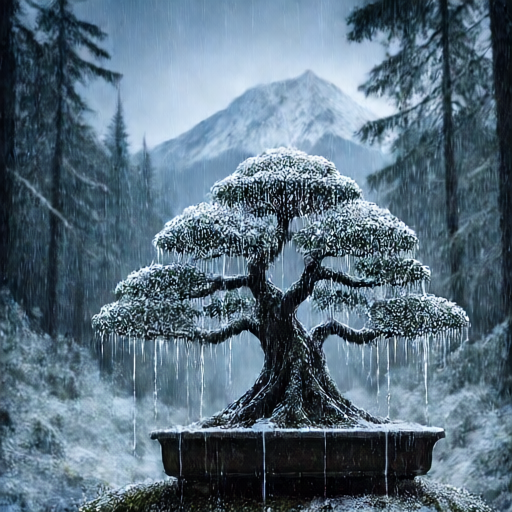
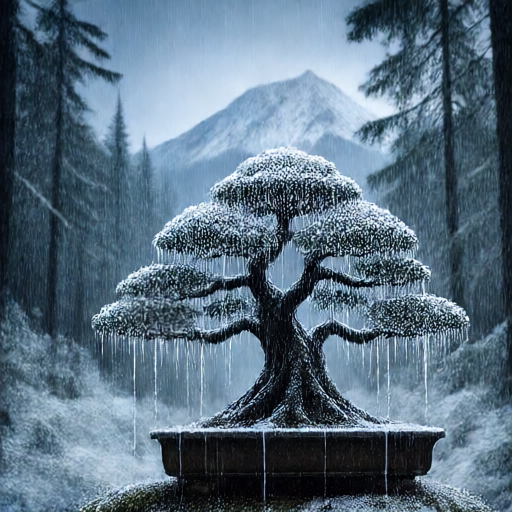
Qwen-Image-Edit: 20 step invece di 40 (misurati)
I 40 step arrivavano dalla scheda diffusers, pensata per GPU con tutto
in memoria. Sul setup reale (DiT in VRAM, text encoder 7B su CPU) non
ha senso: a 512², stesso seed e stessa istruzione

  8 step -> 61 s · 12 -> 60 s · 20 -> 71 s · 40 -> 115 s

~50 s dei 71 sono un costo fisso (encoding col text encoder su CPU +
primo page-in dei pesi), gli step costano ~2 s a testa. Sotto i 20 non
si guadagna tempo e si perde qualita' (aghi fusi a 8), sopra i 20 si
ruba il 38% del tempo per un guadagno invisibile.

Default a 20, wiki con la tabella misurata e il confronto online
(~224 s a 20 step in ComfyUI col GGUF Q4_K_M sulla stessa 5060 Ti), e
i due esempi a 20 e 8 step per far vedere la differenza.

diff --git a/frontend/src/data/wiki.ts b/frontend/src/data/wiki.ts
@@ -158,10 +158,11 @@ export const QWENIMAGEEDIT: ModelWiki = {
     'Peso disco': '≈ 14,7 GB (DiT 9,7 + TE 4,7 + VAE 0,25)',
     'Text encoder': 'Qwen2.5-VL-7B-Instruct (GGUF Q4_K_M) + mmproj visione',
     'VAE': 'Qwen-Image originale (AutoencoderKLQwenImage)',
-    'Step': '40 (consigliati)',
+    'Step': '20 (misurati: sotto i 20 non si guadagna tempo, sopra non si vede)',
     'CFG': '2.5 · sampler euler · flow-shift 3',
     'Uso': 'solo image editing: immagine di partenza obbligatoria',
-    'Tempo 512²': '115 s misurati (40 step, cache-dit, text encoder su CPU)',
+    'Tempo 512²': '71 s a 20 step · 115 s a 40 step · 61 s a 8 step — metà del tempo è un costo fisso di ~50 s (encoding dell\'istruzione col text encoder su CPU), gli step aggiungono ~2 s a testa',
+    'Confronto online': 'su RTX 5060 Ti 16GB, in ComfyUI, altri misurano ~224 s a 20 step col GGUF Q4_K_M e ~30 s a 4 step con il Lightning LoRA',
     'VRAM misurata': '≈ 9,3 GB in VRAM (DiT 9,3 + VAE 0,24) + ≈ 5,3 GB in RAM per il text encoder',
     'Endpoint': 'POST /api/image (hub —> :8000/generate, backend sd-server)',
   },
@@ -172,7 +173,8 @@ export const QWENIMAGEEDIT: ModelWiki = {
     'Il costo è alto: ~14 GB di pesi, DiT da 9,3 GB in VRAM e un text encoder da 5,3 GB che gira su CPU. Non coesiste con nessun altro modello.',
   ],
   examples: [
-    { file: 'qwenimageedit-snow.png', prompt: 'make it snow on the ground', note: '512² · 115 s — la struttura resta, cambia solo la quantità di neve' },
+    { file: 'qwenimageedit-snow.png', prompt: 'make it snow on the ground', note: '512² · 71 s a 20 step — la struttura resta, cambia solo la quantità di neve' },
+    { file: 'qwenimageedit-snow-8step.png', prompt: 'make it snow on the ground', note: '512² · 61 s a 8 step — la stessa scena, aghi più fusi: non vale i 20' },
   ],
 }
 

diff --git a/frontend/src/lib/images.ts b/frontend/src/lib/images.ts
@@ -26,9 +26,12 @@ export namespace Images {
     ['832x1248', 'ritratto 2:3 HD'],
   ] as const
 
-  /** Step consigliati per modello. */
+  /** Step consigliati per modello.
+   *  qwenimageedit: 20, non i 40 della scheda diffusers — su questa macchina
+   *  gli step sono marginali (~2 s) rispetto a un costo fisso di ~50 s di
+   *  encoding su CPU, quindi 40→20 toglie il 38% del tempo e non si vede. */
   export const DEFAULT_STEPS: Record<ModelId, number> = {
-    bonsai: 4, zimage: 8, klein: 4, qwenimage: 40, qwenimageedit: 40,
+    bonsai: 4, zimage: 8, klein: 4, qwenimage: 40, qwenimageedit: 20,
   }
 
   /** Nome breve del modello. */
